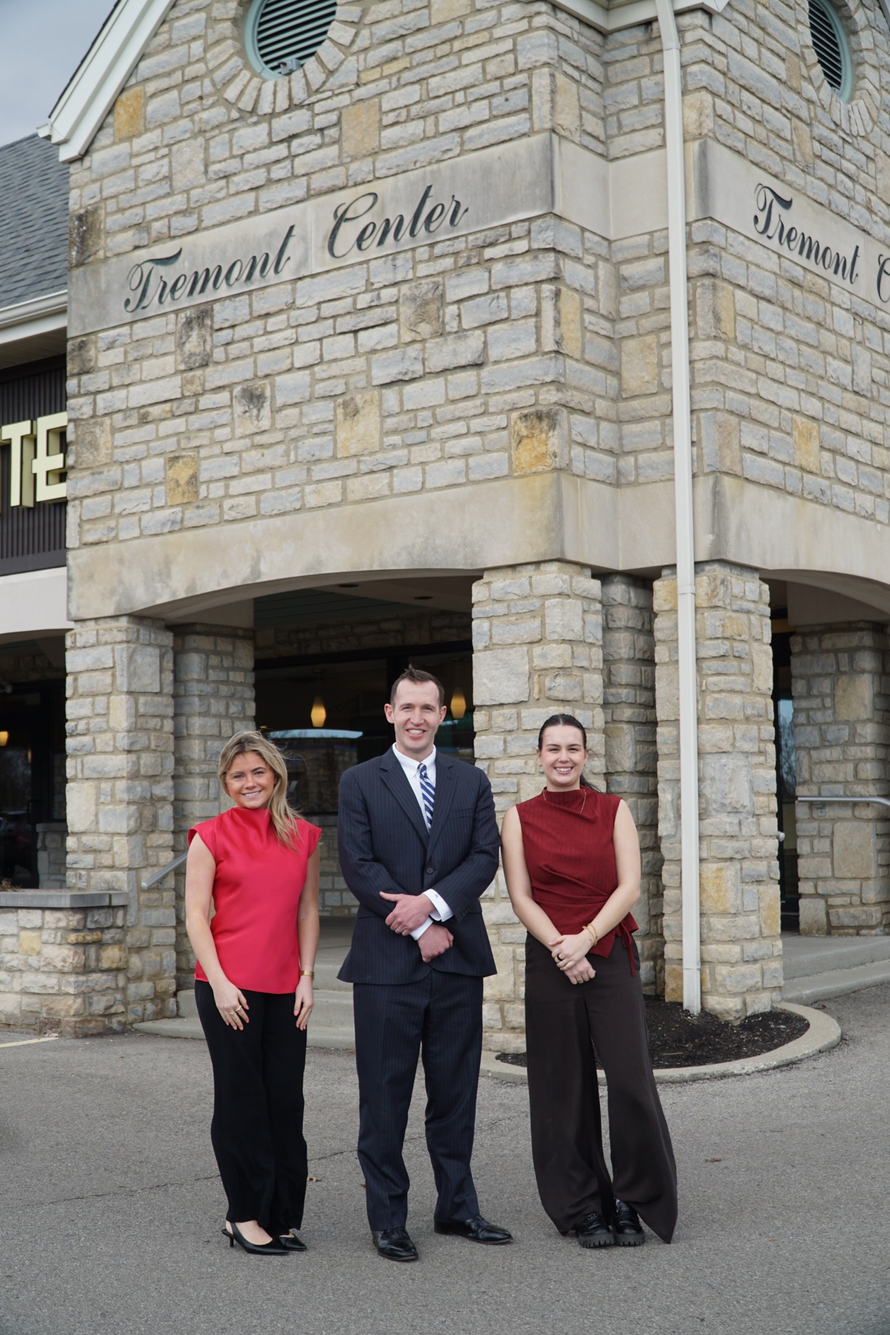
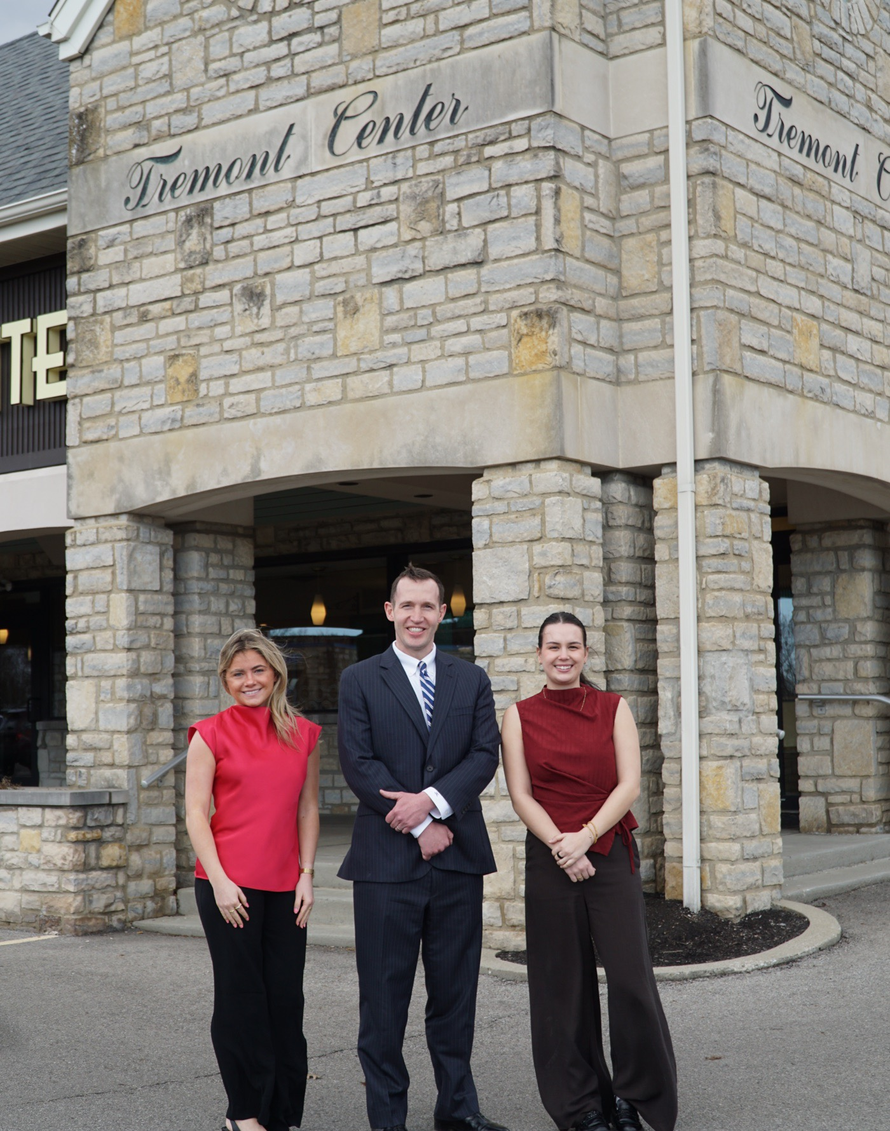
Show full outdoor team photo — portrait card, no cropping
Pre-cropped source to remove excess ground, displayed at natural
proportions in a 480px max-width portrait card.

diff --git a/index.html b/index.html
@@ -827,8 +827,8 @@
       <h2>My Team</h2>
       <div class="section-rule"></div>
       <p>I'm fortunate to work alongside two talented people who share a genuine commitment to our Upper Arlington community.</p>
-      <div class="photo-card" style="max-width:680px; margin:1.75rem auto 2.5rem;">
-        <img src="assets/team-outdoor.jpg" alt="Joe Lotozo, Emma Reed, and Bella Cloyd outside Tremont Center in Upper Arlington" style="height:520px; width:100%; object-fit:cover; object-position:center 42%;" loading="lazy" />
+      <div class="photo-card" style="max-width:480px; margin:1.75rem auto 2.5rem;">
+        <img src="assets/team-outdoor.jpg" alt="Joe Lotozo, Emma Reed, and Bella Cloyd outside Tremont Center in Upper Arlington" style="width:100%; height:auto; display:block;" loading="lazy" />
         <div class="photo-caption">Joe, Emma &amp; Bella — Tremont Center, Upper Arlington, Ohio</div>
       </div>
 
